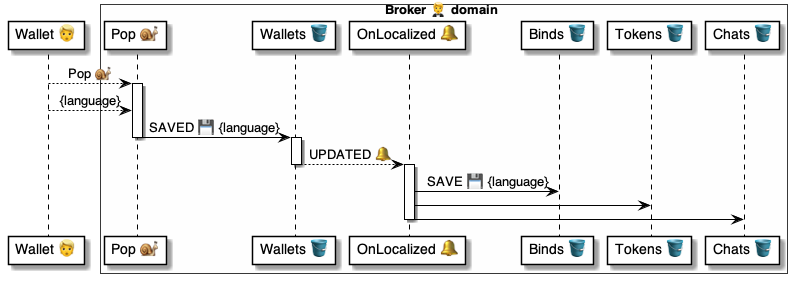
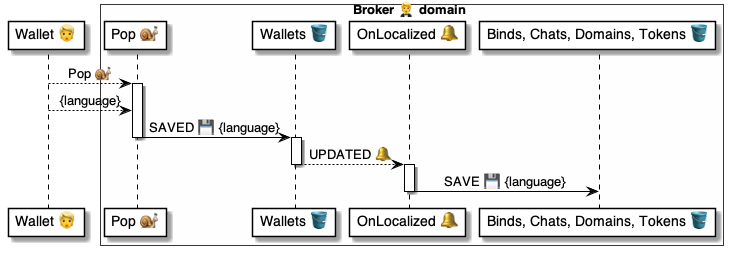
.

Changed region(s): [[0.0, 0.0549, 0.9905, 0.9882], [0.1201, 0.0, 0.9905, 0.2196]]

diff --git a/4 ⚙ Solution/20 🧑🦰 UI/Brokers 🤵/🤵🅰 Broker methods/Tokens 🎫 Offer 🎴🐌🤵/🤵 Offer 📃 handler.md b/4 ⚙ Solution/20 🧑🦰 UI/Brokers 🤵/🤵🅰 Broker methods/Tokens 🎫 Offer 🎴🐌🤵/🤵 Offer 📃 handler.md
@@ -91,7 +91,7 @@
 Uses||
 -|-
 [Commands ⌘](<../../../../35 💬 Chats/Scripts 📃/Command ⌘.md>) | [`ASSERT`](<../../../../37 Scripts 📃/📃 Commands ⌘/⌘ for holders 🧠/ASSERT 🚦/🚦 ASSERT ⌘ cmd.md>) [`READ`](<../../../../37 Scripts 📃/📃 Commands ⌘/⌘ for datasets 🪣/READ 🧲/🧲 READ ⌘ cmd.md>) [`SAVE`](<../../../../37 Scripts 📃/📃 Commands ⌘/⌘ for datasets 🪣/SAVE 💾/💾 SAVE ⌘ cmd.md>) [`SEND`](<../../../../37 Scripts 📃/📃 Commands ⌘/⌘ for messages 📨/SEND 📬/📬 SEND ⌘ cmd.md>) [`VERIFY`](<../../../../37 Scripts 📃/📃 Commands ⌘/⌘ for messages 📨/VERIFY 🔐/🔐 VERIFY ⌘ cmd.md>)
-| [Datasets 🪣](<../../../../30 🧩 Data/Datasets 🪣/🪣 Dataset.md>) | [`Domain`](<../../🤵🪣 Broker tables/Domains 👥 table/🪣 Domains/🤵 Broker.Domain 🪣 table.md>) [`Tokens`](<../../🤵🪣 Broker tables/Tokens 🎫 table/🪣 Tokens/🤵 Broker.Tokens 🪣 table.md>)
+| [Datasets 🪣](<../../../../30 🧩 Data/Datasets 🪣/🪣 Dataset.md>) | [`Domain`](<../../🤵🪣 Broker tables/Domains 👥 table/🪣 Domains/🤵 Broker.Domains 🪣 table.md>) [`Tokens`](<../../🤵🪣 Broker tables/Tokens 🎫 table/🪣 Tokens/🤵 Broker.Tokens 🪣 table.md>)
 | [{Functions} 🐍](<../../../../35 💬 Chats/Scripts 📃/Function 🐍.md>) | [`.IsAbove`](<../../../../37 Scripts 📃/📃 Functions 🐍/🐍 System 🔩 functions/IsAbove ⓕ.md>) [`.IsBelow`](<../../../../37 Scripts 📃/📃 Functions 🐍/🐍 System 🔩 functions/IsBelow ⓕ.md>) [`.Lower`](<../../../../37 Scripts 📃/📃 Functions 🐍/🐍 System 🔩 functions/Lower ⓕ.md>) [`.Now`](<../../../../37 Scripts 📃/📃 Functions 🐍/🐍 System 🔩 functions/Now ⓕ.md>) [`.UUID`](<../../../../37 Scripts 📃/📃 Functions 🐍/🐍 System 🔩 functions/UUID ⓕ.md>)
 | [Messages 📨](<../../../../30 🧩 Data/Messages 📨/📨 Message/📨 Message.md>) | [`Translate@Graph`](<../../../../45 🤲 Helper domains/Graphs 🕸/🕸🅰 Graph methods/👥🚀🕸 Translate/🕸 Translate 🚀 call.md>)
 | [Holders 🧠](<../../../../35 💬 Chats/Scripts 📃/Holder 🧠.md>) | [`$.Chat`](<../../../../37 Scripts 📃/📃 Holders 🧠/System holders 🔩/$.Chat 💬/💬 $.Chat 🧠 holder.md>) [`$.Msg`](<../../../../37 Scripts 📃/📃 Holders 🧠/System holders 🔩/$.Msg 📨/📨 $.Msg 🧠 holder.md>) [`$.Hosted`](<../../../../37 Scripts 📃/📃 Holders 🧠/System holders 🔩/$.Hosted 📦/📦 $.Hosted 🧠 holder.md>)

diff --git a/4 ⚙ Solution/20 🧑🦰 UI/Brokers 🤵/🤵🪣 Broker tables/Wallets 🧑🦰 table/🪣🔔 2 Localized/🤵 OnWalletLocalized 📃 handler.md b/4 ⚙ Solution/20 🧑🦰 UI/Brokers 🤵/🤵🪣 Broker tables/Wallets 🧑🦰 table/🪣🔔 2 Localized/🤵 OnWalletLocalized 📃 handler.md
@@ -21,14 +21,19 @@
 # Update all related entities in this Wallet
 - PARALLEL:
 
+    # Update all Binds in this Wallet
+    - PARALLEL|$Wallet.Binds|$bind:
+        SAVE|$bind:
+            Language: $Wallet.Language
+
     # Update all Chats in this Wallet
     - PARALLEL|$Wallet.Chats|$chat:
         SAVE|$chat:
             Language: $Wallet.Language
 
-    # Update all Binds in this Wallet
-    - PARALLEL|$Wallet.Binds|$bind:
-        SAVE|$bind:
+    # Update all Domains in this Wallet
+    - PARALLEL|$Wallet.Domains|$domain:
+        SAVE|$domain:
             Language: $Wallet.Language
 
     # Update all Tokens in this Wallet
@@ -40,5 +45,5 @@
 Uses ||
 |-|-
 | [Commands ⌘](<../../../../../35 💬 Chats/Scripts 📃/Command ⌘.md>) | [`ASSERT`](<../../../../../37 Scripts 📃/📃 Commands ⌘/⌘ for holders 🧠/ASSERT 🚦/🚦 ASSERT ⌘ cmd.md>) [`PARALLEL`](<../../../../../37 Scripts 📃/📃 Commands ⌘/⌘ for control ▶/PARALLEL *⃣/*⃣ PARALLEL ⌘ cmd.md>) [`SAVE`](<../../../../../37 Scripts 📃/📃 Commands ⌘/⌘ for datasets 🪣/SAVE 💾/💾 SAVE ⌘ cmd.md>) |
-| [Datasets 🪣](<../../../../../30 🧩 Data/Datasets 🪣/🪣 Dataset.md>) | [`Wallets`](<../🪣 Wallets/🤵 Broker.Wallets 🪣 table.md>) [`Chats`](<../../Chats 💬 table/🪣 Chats/🤵 Broker.Chats 🪣 table.md>) [`Binds`](<../../Binds 🔗 table/🪣 Binds/🤵 Broker.Binds 🪣 table.md>) [`Tokens`](<../../Tokens 🎫 table/🪣 Tokens/🤵 Broker.Tokens 🪣 table.md>) |
+| [Datasets 🪣](<../../../../../30 🧩 Data/Datasets 🪣/🪣 Dataset.md>) | [`Binds`](<../../Binds 🔗 table/🪣 Binds/🤵 Broker.Binds 🪣 table.md>) [`Chats`](<../../Chats 💬 table/🪣 Chats/🤵 Broker.Chats 🪣 table.md>) {{Broker.Domains}} [`Tokens`](<../../Tokens 🎫 table/🪣 Tokens/🤵 Broker.Tokens 🪣 table.md>) [`Wallets`](<../🪣 Wallets/🤵 Broker.Wallets 🪣 table.md>) |
 |

diff --git a/4 ⚙ Solution/20 🧑🦰 UI/Brokers 🤵/🤵🪣 Broker tables/Domains 👥 table/🪣🔔 1 Inserted/🤵 OnDomainInserted 📃 handler.md b/4 ⚙ Solution/20 🧑🦰 UI/Brokers 🤵/🤵🪣 Broker tables/Domains 👥 table/🪣🔔 1 Inserted/🤵 OnDomainInserted 📃 handler.md
@@ -1,7 +1,7 @@
 # 🤵 OnDomainInserted 📃 handler
 
 > Purpose
-* [Script 📃](<../../../../../35 💬 Chats/Scripts 📃/Script 📃.md>) that reacts to the insertion of a new [`Broker.Domain`](<../🪣 Domains/🤵 Broker.Domain 🪣 table.md>) item.
+* [Script 📃](<../../../../../35 💬 Chats/Scripts 📃/Script 📃.md>) that reacts to the insertion of a new [`Domain`](<../🪣 Domains/🤵 Broker.Domains 🪣 table.md>) item.
 
 <br/>
 
@@ -44,7 +44,7 @@
 Uses||
 |-|-
 | [Commands ⌘](<../../../../../35 💬 Chats/Scripts 📃/Command ⌘.md>) | [`ASSERT`](<../../../../../37 Scripts 📃/📃 Commands ⌘/⌘ for holders 🧠/ASSERT 🚦/🚦 ASSERT ⌘ cmd.md>) [`SAVE`](<../../../../../37 Scripts 📃/📃 Commands ⌘/⌘ for datasets 🪣/SAVE 💾/💾 SAVE ⌘ cmd.md>) [`SEND`](<../../../../../37 Scripts 📃/📃 Commands ⌘/⌘ for messages 📨/SEND 📬/📬 SEND ⌘ cmd.md>)
-| [Datasets 🪣](<../../../../../30 🧩 Data/Datasets 🪣/🪣 Dataset.md>) | [`Domains`](<../🪣 Domains/🤵 Broker.Domain 🪣 table.md>)
+| [Datasets 🪣](<../../../../../30 🧩 Data/Datasets 🪣/🪣 Dataset.md>) | [`Domains`](<../🪣 Domains/🤵 Broker.Domains 🪣 table.md>)
 | [Holders 🧠](<../../../../../35 💬 Chats/Scripts 📃/Holder 🧠.md>) |  [`$.Hosted`](<../../../../../37 Scripts 📃/📃 Holders 🧠/System holders 🔩/$.Hosted 📦/📦 $.Hosted 🧠 holder.md>)
 | [Messages 📨](<../../../../../30 🧩 Data/Messages 📨/📨 Message/📨 Message.md>) | [`About@Graph`](<../../../../../45 🤲 Helper domains/Graphs 🕸/🕸🅰 Graph methods/👥🚀🕸 About/🕸 About 🚀 call.md>) 
 |

diff --git a/4 ⚙ Solution/20 🧑🦰 UI/Brokers 🤵/🤵🪣 Broker tables/Domains 👥 table/🪣🔔 2 Localized/🤵 OnDomainLocalized 📃 handler.md b/4 ⚙ Solution/20 🧑🦰 UI/Brokers 🤵/🤵🪣 Broker tables/Domains 👥 table/🪣🔔 2 Localized/🤵 OnDomainLocalized 📃 handler.md
@@ -34,6 +34,6 @@
 
 |Uses ||
 |-|-
-| [Commands ⌘](<../../../../../35 💬 Chats/Scripts 📃/Command ⌘.md>) | [`SAVE`](<../../../../../37 Scripts 📃/📃 Commands ⌘/⌘ for datasets 🪣/SAVE 💾/💾 SAVE ⌘ cmd.md>) [`TRANSLATE`](<../../../../../37 Scripts 📃/📃 Commands ⌘/⌘ for methods 🤵/TRANSLATE 🈯/🈯 TRANSLATE ⌘ cmd.md>)
-| [Datasets 🪣](<../../../../../30 🧩 Data/Datasets 🪣/🪣 Dataset.md>) | [`Domains`](<../🪣 Domains/🤵 Broker.Domain 🪣 table.md>)
+| [Commands ⌘](<../../../../../35 💬 Chats/Scripts 📃/Command ⌘.md>) | [`ASSERT`](<../../../../../37 Scripts 📃/📃 Commands ⌘/⌘ for holders 🧠/ASSERT 🚦/🚦 ASSERT ⌘ cmd.md>) [`SAVE`](<../../../../../37 Scripts 📃/📃 Commands ⌘/⌘ for datasets 🪣/SAVE 💾/💾 SAVE ⌘ cmd.md>) [`TRANSLATE`](<../../../../../37 Scripts 📃/📃 Commands ⌘/⌘ for methods 🤵/TRANSLATE 🈯/🈯 TRANSLATE ⌘ cmd.md>)
+| [Datasets 🪣](<../../../../../30 🧩 Data/Datasets 🪣/🪣 Dataset.md>) | [`Domains`](<../🪣 Domains/🤵 Broker.Domains 🪣 table.md>)
 |

diff --git a/4 ⚙ Solution/20 🧑🦰 UI/Brokers 🤵/🤵🪣 Broker tables/Binds 🔗 table/🪣 Binds/🤵 Broker.Binds 🪣 table.md b/4 ⚙ Solution/20 🧑🦰 UI/Brokers 🤵/🤵🪣 Broker tables/Binds 🔗 table/🪣 Binds/🤵 Broker.Binds 🪣 table.md
@@ -46,7 +46,7 @@ Handlers:
 | Link | Table | Contains
 |-|-|-
 | Parent    | [`Wallets` 🪣](<../../Wallets 🧑🦰 table/🪣 Wallets/🤵 Broker.Wallets 🪣 table.md>) | [Wallet 🧑🦰 app](<../../../../Wallets 🧑🦰/🧑🦰 Wallet app/🧑🦰 Wallet 🛠 app.md>)
-|| [`Domains` 🪣](<../../Domains 👥 table/🪣 Domains/🤵 Broker.Domain 🪣 table.md>) | [domains 👥](<../../../../../40 👥 Domains/👥 Domain/👥 Domain.md>)
+|| [`Domains` 🪣](<../../Domains 👥 table/🪣 Domains/🤵 Broker.Domains 🪣 table.md>) | [domains 👥](<../../../../../40 👥 Domains/👥 Domain/👥 Domain.md>)
 
 
 ## Handlers

diff --git a/4 ⚙ Solution/20 🧑🦰 UI/Brokers 🤵/🤵🪣 Broker tables/Chatters 👥 table/🪣 Chatters/🤵 Broker.Chatters 🪣 table.md b/4 ⚙ Solution/20 🧑🦰 UI/Brokers 🤵/🤵🪣 Broker tables/Chatters 👥 table/🪣 Chatters/🤵 Broker.Chatters 🪣 table.md
@@ -45,7 +45,7 @@ Handlers:
 | Link | Table | Contains
 |-|-|-
 | Parents   | [`Chats` 🪣](<../../Chats 💬 table/🪣 Chats/🤵 Broker.Chats 🪣 table.md>) | [Chats 💬](<../../../../../35 💬 Chats/Chats 💬/💬 Chat.md>)
-|           | [`Domains` 🪣](<../../Domains 👥 table/🪣 Domains/🤵 Broker.Domain 🪣 table.md>) | [domains 👥](<../../../../../40 👥 Domains/👥 Domain/👥 Domain.md>)
+|           | [`Domains` 🪣](<../../Domains 👥 table/🪣 Domains/🤵 Broker.Domains 🪣 table.md>) | [domains 👥](<../../../../../40 👥 Domains/👥 Domain/👥 Domain.md>)
 |
 
 <br/>
